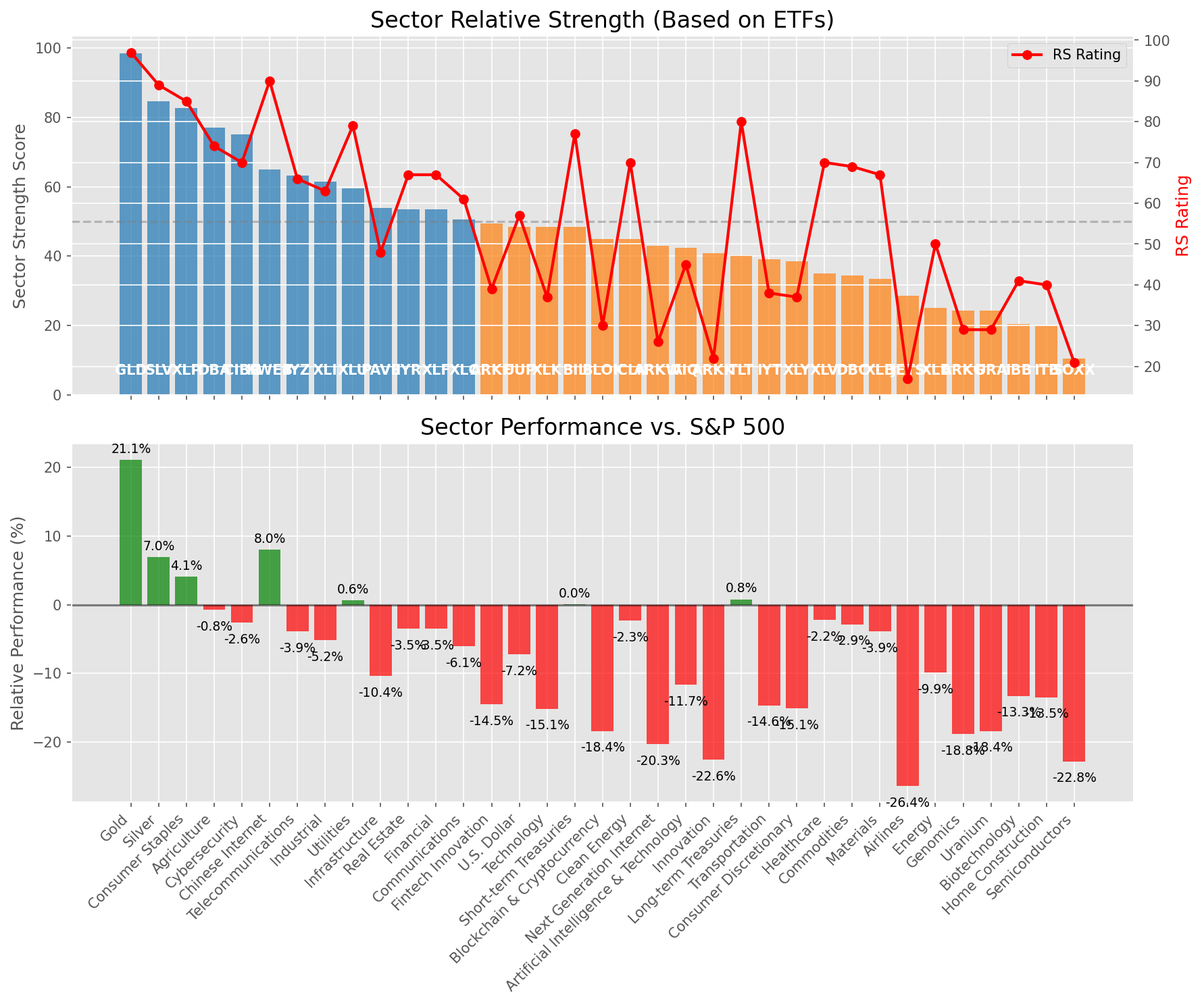
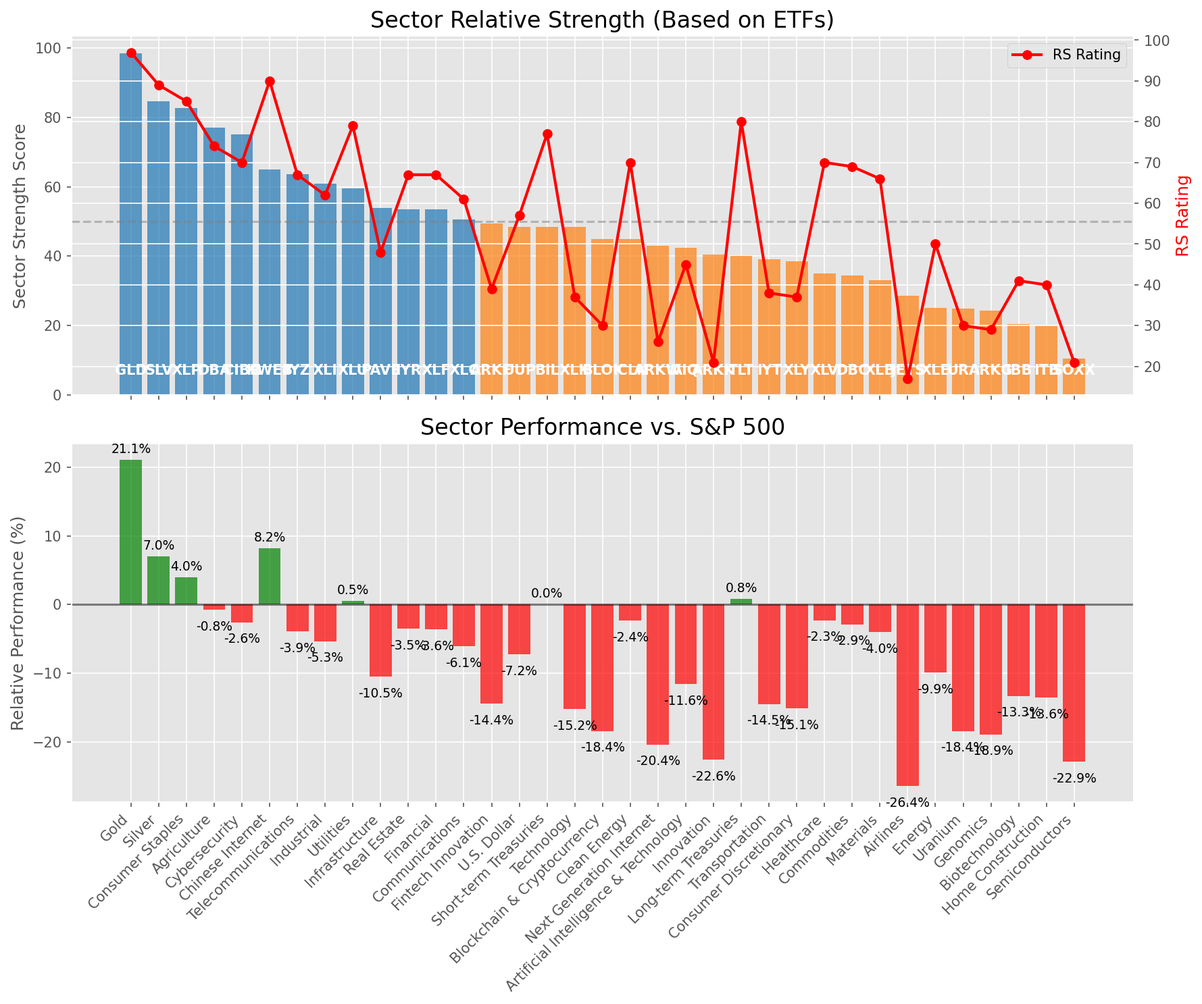
Add market report for 2025-04-11

diff --git a/oneil_relative_strength_report_2025-04-11.md b/oneil_relative_strength_report_2025-04-11.md
@@ -9,11 +9,11 @@
 | Metric | Value |
 |--------|-------|
 | **Market Valuation** | **Significantly Undervalued** |
-| **Current Ratio** | 8.82 |
+| **Current Ratio** | 8.80 |
 | **Historical Mean** | 9.69 |
 | **Standard Deviation** | 0.44 |
 | **Z-Score (StdDev from Mean)** | -2.33 |
-| **Total Market Cap** | $262.14 trillion |
+| **Total Market Cap** | $261.58 trillion |
 | **GDP** | $29.72 trillion |
 
 ## **Market Insights**
@@ -49,41 +49,41 @@ Based on William O'Neil's Relative Strength Methodology
 
 | ETF | Strength | RS Rating | Performance | Above Key MAs | Trend | Sector |
 |-----|----------|-----------|-------------|--------------|-------|--------|
-| [GLD](https://www.tradingview.com/chart/?symbol=GLD) | 98.5 | 97.0 | 21.13% | 10d ✓, 50d ✓, 200d ✓ | ↗ | Gold |
-| [SLV](https://www.tradingview.com/chart/?symbol=SLV) | 84.6 | 89.0 | 6.95% | 10d ✓, 50d ✗, 200d ✓ | ↗ | Silver |
-| [XLP](https://www.tradingview.com/chart/?symbol=XLP) | 82.6 | 85.0 | 4.07% | 10d ✓, 50d ✗, 200d ✓ | ↗ | Consumer Staples |
-| [DBA](https://www.tradingview.com/chart/?symbol=DBA) | 77.1 | 74.0 | -0.77% | 10d ✓, 50d ✗, 200d ✓ | ↗ | Agriculture |
+| [GLD](https://www.tradingview.com/chart/?symbol=GLD) | 98.5 | 97.0 | 21.08% | 10d ✓, 50d ✓, 200d ✓ | ↗ | Gold |
+| [SLV](https://www.tradingview.com/chart/?symbol=SLV) | 84.6 | 89.0 | 6.99% | 10d ✓, 50d ✗, 200d ✓ | ↗ | Silver |
+| [XLP](https://www.tradingview.com/chart/?symbol=XLP) | 82.6 | 85.0 | 3.98% | 10d ✓, 50d ✗, 200d ✓ | ↗ | Consumer Staples |
+| [DBA](https://www.tradingview.com/chart/?symbol=DBA) | 77.1 | 74.0 | -0.75% | 10d ✓, 50d ✗, 200d ✓ | ↗ | Agriculture |
 | [CIBR](https://www.tradingview.com/chart/?symbol=CIBR) | 75.1 | 70.0 | -2.60% | 10d ✓, 50d ✗, 200d ✓ | ↗ | Cybersecurity |
-| [KWEB](https://www.tradingview.com/chart/?symbol=KWEB) | 65.0 | 90.0 | 8.01% | 10d ✗, 50d ✗, 200d ✗ | ↗ | Chinese Internet |
-| [IYZ](https://www.tradingview.com/chart/?symbol=IYZ) | 63.2 | 66.0 | -3.92% | 10d ✗, 50d ✗, 200d ✓ | ↗ | Telecommunications |
-| [XLI](https://www.tradingview.com/chart/?symbol=XLI) | 61.4 | 63.0 | -5.20% | 10d ✓, 50d ✗, 200d ✗ | ↗ | Industrial |
-| [XLU](https://www.tradingview.com/chart/?symbol=XLU) | 59.5 | 79.0 | 0.61% | 10d ✗, 50d ✗, 200d ✗ | ↗ | Utilities |
-| [PAVE](https://www.tradingview.com/chart/?symbol=PAVE) | 53.9 | 48.0 | -10.39% | 10d ✓, 50d ✗, 200d ✗ | ↗ | Infrastructure |
-| [IYR](https://www.tradingview.com/chart/?symbol=IYR) | 53.5 | 67.0 | -3.51% | 10d ✗, 50d ✗, 200d ✗ | ↗ | Real Estate |
-| [XLF](https://www.tradingview.com/chart/?symbol=XLF) | 53.5 | 67.0 | -3.51% | 10d ✗, 50d ✗, 200d ✗ | ↗ | Financial |
-| [XLC](https://www.tradingview.com/chart/?symbol=XLC) | 50.5 | 61.0 | -6.09% | 10d ✗, 50d ✗, 200d ✗ | ↗ | Communications |
-| [ARKF](https://www.tradingview.com/chart/?symbol=ARKF) | 49.4 | 39.0 | -14.50% | 10d ✓, 50d ✗, 200d ✗ | ↗ | Fintech Innovation |
+| [KWEB](https://www.tradingview.com/chart/?symbol=KWEB) | 65.0 | 90.0 | 8.19% | 10d ✗, 50d ✗, 200d ✗ | ↗ | Chinese Internet |
+| [IYZ](https://www.tradingview.com/chart/?symbol=IYZ) | 63.7 | 67.0 | -3.94% | 10d ✗, 50d ✗, 200d ✓ | ↗ | Telecommunications |
+| [XLI](https://www.tradingview.com/chart/?symbol=XLI) | 60.9 | 62.0 | -5.35% | 10d ✓, 50d ✗, 200d ✗ | ↗ | Industrial |
+| [XLU](https://www.tradingview.com/chart/?symbol=XLU) | 59.5 | 79.0 | 0.55% | 10d ✗, 50d ✗, 200d ✗ | ↗ | Utilities |
+| [PAVE](https://www.tradingview.com/chart/?symbol=PAVE) | 53.9 | 48.0 | -10.51% | 10d ✓, 50d ✗, 200d ✗ | ↗ | Infrastructure |
+| [IYR](https://www.tradingview.com/chart/?symbol=IYR) | 53.5 | 67.0 | -3.54% | 10d ✗, 50d ✗, 200d ✗ | ↗ | Real Estate |
+| [XLF](https://www.tradingview.com/chart/?symbol=XLF) | 53.5 | 67.0 | -3.61% | 10d ✗, 50d ✗, 200d ✗ | ↗ | Financial |
+| [XLC](https://www.tradingview.com/chart/?symbol=XLC) | 50.5 | 61.0 | -6.07% | 10d ✗, 50d ✗, 200d ✗ | ↗ | Communications |
+| [ARKF](https://www.tradingview.com/chart/?symbol=ARKF) | 49.4 | 39.0 | -14.42% | 10d ✓, 50d ✗, 200d ✗ | ↗ | Fintech Innovation |
 | [UUP](https://www.tradingview.com/chart/?symbol=UUP) | 48.5 | 57.0 | -7.24% | 10d ✗, 50d ✗, 200d ✗ | ↗ | U.S. Dollar |
-| [XLK](https://www.tradingview.com/chart/?symbol=XLK) | 48.4 | 37.0 | -15.15% | 10d ✓, 50d ✗, 200d ✗ | ↗ | Technology |
 | [BIL](https://www.tradingview.com/chart/?symbol=BIL) | 48.4 | 77.0 | 0.04% | 10d ✓, 50d ✗, 200d ✗ | ↘ | Short-term Treasuries |
+| [XLK](https://www.tradingview.com/chart/?symbol=XLK) | 48.4 | 37.0 | -15.21% | 10d ✓, 50d ✗, 200d ✗ | ↗ | Technology |
 | [BLOK](https://www.tradingview.com/chart/?symbol=BLOK) | 44.9 | 30.0 | -18.42% | 10d ✓, 50d ✗, 200d ✗ | ↗ | Blockchain & Cryptocurrency |
-| [ICLN](https://www.tradingview.com/chart/?symbol=ICLN) | 44.9 | 70.0 | -2.30% | 10d ✓, 50d ✗, 200d ✗ | ↘ | Clean Energy |
-| [ARKW](https://www.tradingview.com/chart/?symbol=ARKW) | 42.9 | 26.0 | -20.33% | 10d ✓, 50d ✗, 200d ✗ | ↗ | Next Generation Internet |
-| [AIQ](https://www.tradingview.com/chart/?symbol=AIQ) | 42.5 | 45.0 | -11.65% | 10d ✗, 50d ✗, 200d ✗ | ↗ | Artificial Intelligence & Technology |
-| [ARKK](https://www.tradingview.com/chart/?symbol=ARKK) | 40.9 | 22.0 | -22.56% | 10d ✓, 50d ✗, 200d ✗ | ↗ | Innovation |
-| [TLT](https://www.tradingview.com/chart/?symbol=TLT) | 40.0 | 80.0 | 0.80% | 10d ✗, 50d ✗, 200d ✗ | ↘ | Long-term Treasuries |
-| [IYT](https://www.tradingview.com/chart/?symbol=IYT) | 39.0 | 38.0 | -14.65% | 10d ✗, 50d ✗, 200d ✗ | ↗ | Transportation |
-| [XLY](https://www.tradingview.com/chart/?symbol=XLY) | 38.5 | 37.0 | -15.09% | 10d ✗, 50d ✗, 200d ✗ | ↗ | Consumer Discretionary |
-| [XLV](https://www.tradingview.com/chart/?symbol=XLV) | 35.0 | 70.0 | -2.22% | 10d ✗, 50d ✗, 200d ✗ | ↘ | Healthcare |
-| [DBC](https://www.tradingview.com/chart/?symbol=DBC) | 34.5 | 69.0 | -2.88% | 10d ✗, 50d ✗, 200d ✗ | ↘ | Commodities |
-| [XLB](https://www.tradingview.com/chart/?symbol=XLB) | 33.5 | 67.0 | -3.89% | 10d ✗, 50d ✗, 200d ✗ | ↘ | Materials |
-| [JETS](https://www.tradingview.com/chart/?symbol=JETS) | 28.5 | 17.0 | -26.41% | 10d ✗, 50d ✗, 200d ✗ | ↗ | Airlines |
-| [XLE](https://www.tradingview.com/chart/?symbol=XLE) | 25.0 | 50.0 | -9.87% | 10d ✗, 50d ✗, 200d ✗ | ↘ | Energy |
-| [ARKG](https://www.tradingview.com/chart/?symbol=ARKG) | 24.4 | 29.0 | -18.83% | 10d ✓, 50d ✗, 200d ✗ | ↘ | Genomics |
-| [URA](https://www.tradingview.com/chart/?symbol=URA) | 24.4 | 29.0 | -18.43% | 10d ✓, 50d ✗, 200d ✗ | ↘ | Uranium |
-| [IBB](https://www.tradingview.com/chart/?symbol=IBB) | 20.5 | 41.0 | -13.31% | 10d ✗, 50d ✗, 200d ✗ | ↘ | Biotechnology |
-| [ITB](https://www.tradingview.com/chart/?symbol=ITB) | 20.0 | 40.0 | -13.49% | 10d ✗, 50d ✗, 200d ✗ | ↘ | Home Construction |
-| [SOXX](https://www.tradingview.com/chart/?symbol=SOXX) | 10.5 | 21.0 | -22.82% | 10d ✗, 50d ✗, 200d ✗ | ↘ | Semiconductors |
+| [ICLN](https://www.tradingview.com/chart/?symbol=ICLN) | 44.9 | 70.0 | -2.39% | 10d ✓, 50d ✗, 200d ✗ | ↘ | Clean Energy |
+| [ARKW](https://www.tradingview.com/chart/?symbol=ARKW) | 42.9 | 26.0 | -20.39% | 10d ✓, 50d ✗, 200d ✗ | ↗ | Next Generation Internet |
+| [AIQ](https://www.tradingview.com/chart/?symbol=AIQ) | 42.5 | 45.0 | -11.61% | 10d ✗, 50d ✗, 200d ✗ | ↗ | Artificial Intelligence & Technology |
+| [ARKK](https://www.tradingview.com/chart/?symbol=ARKK) | 40.4 | 21.0 | -22.60% | 10d ✓, 50d ✗, 200d ✗ | ↗ | Innovation |
+| [TLT](https://www.tradingview.com/chart/?symbol=TLT) | 40.0 | 80.0 | 0.84% | 10d ✗, 50d ✗, 200d ✗ | ↘ | Long-term Treasuries |
+| [IYT](https://www.tradingview.com/chart/?symbol=IYT) | 39.0 | 38.0 | -14.51% | 10d ✗, 50d ✗, 200d ✗ | ↗ | Transportation |
+| [XLY](https://www.tradingview.com/chart/?symbol=XLY) | 38.5 | 37.0 | -15.11% | 10d ✗, 50d ✗, 200d ✗ | ↗ | Consumer Discretionary |
+| [XLV](https://www.tradingview.com/chart/?symbol=XLV) | 35.0 | 70.0 | -2.31% | 10d ✗, 50d ✗, 200d ✗ | ↘ | Healthcare |
+| [DBC](https://www.tradingview.com/chart/?symbol=DBC) | 34.5 | 69.0 | -2.90% | 10d ✗, 50d ✗, 200d ✗ | ↘ | Commodities |
+| [XLB](https://www.tradingview.com/chart/?symbol=XLB) | 33.0 | 66.0 | -4.02% | 10d ✗, 50d ✗, 200d ✗ | ↘ | Materials |
+| [JETS](https://www.tradingview.com/chart/?symbol=JETS) | 28.5 | 17.0 | -26.43% | 10d ✗, 50d ✗, 200d ✗ | ↗ | Airlines |
+| [XLE](https://www.tradingview.com/chart/?symbol=XLE) | 25.0 | 50.0 | -9.91% | 10d ✗, 50d ✗, 200d ✗ | ↘ | Energy |
+| [URA](https://www.tradingview.com/chart/?symbol=URA) | 24.9 | 30.0 | -18.43% | 10d ✓, 50d ✗, 200d ✗ | ↘ | Uranium |
+| [ARKG](https://www.tradingview.com/chart/?symbol=ARKG) | 24.4 | 29.0 | -18.91% | 10d ✓, 50d ✗, 200d ✗ | ↘ | Genomics |
+| [IBB](https://www.tradingview.com/chart/?symbol=IBB) | 20.5 | 41.0 | -13.33% | 10d ✗, 50d ✗, 200d ✗ | ↘ | Biotechnology |
+| [ITB](https://www.tradingview.com/chart/?symbol=ITB) | 20.0 | 40.0 | -13.59% | 10d ✗, 50d ✗, 200d ✗ | ↘ | Home Construction |
+| [SOXX](https://www.tradingview.com/chart/?symbol=SOXX) | 10.5 | 21.0 | -22.90% | 10d ✗, 50d ✗, 200d ✗ | ↘ | Semiconductors |
 
 ### **Sector ETF Performance Interpretation**
 
@@ -100,94 +100,90 @@ This table shows the relative strength metrics for different market sectors base
 
 The current market leadership is coming from the following sectors: **Gold, Silver, Consumer Staples**.
 
-The **Gold** sector (represented by **GLD**) is showing particularly strong relative strength with an RS rating of 97.0 and performance of 21.13% vs. the S&P 500. This sector is trading above its 10-day, 50-day, 200-day moving average(s). Investors should consider focusing on high RS stocks within these leading sectors for potential outperformance.
+The **Gold** sector (represented by **GLD**) is showing particularly strong relative strength with an RS rating of 97.0 and performance of 21.08% vs. the S&P 500. This sector is trading above its 10-day, 50-day, 200-day moving average(s). Investors should consider focusing on high RS stocks within these leading sectors for potential outperformance.
 
 ---
 
 ## **Buy Recommendations**
 
-The following 79 stocks show exceptional relative strength:
+The following 75 stocks show exceptional relative strength:
 
 | RS Rating | Buy Score | Current Price | Chart | Name | Ticker |
 |-----------|-----------|---------------|-------|------|--------|
-| 100 | 100 | $82.87 | [Chart](https://www.tradingview.com/chart/?symbol=WPM) | Wheaton Precious Metals Corp. Common Stock | WPM |
-| 100 | 100 | $29.41 | [Chart](https://www.tradingview.com/chart/?symbol=AGI) | Alamos Gold Inc. Class A Common Shares | AGI |
+| 100 | 100 | $82.82 | [Chart](https://www.tradingview.com/chart/?symbol=WPM) | Wheaton Precious Metals Corp. Common Stock | WPM |
+| 100 | 100 | $29.37 | [Chart](https://www.tradingview.com/chart/?symbol=AGI) | Alamos Gold Inc. Class A Common Shares | AGI |
+| 99 | 100 | $118.07 | [Chart](https://www.tradingview.com/chart/?symbol=AEM) | Agnico Eagle Mines Ltd. | AEM |
+| 99 | 100 | $31.05 | [Chart](https://www.tradingview.com/chart/?symbol=LTH) | Life Time Group Holdings, Inc. | LTH |
+| 99 | 100 | $146.89 | [Chart](https://www.tradingview.com/chart/?symbol=PLMR) | Palomar Holdings, Inc. Common stock | PLMR |
 | 99 | 100 | $18.48 | [Chart](https://www.tradingview.com/chart/?symbol=SWI) | SolarWinds Corporation Common Stock | SWI |
+| 99 | 100 | $135.87 | [Chart](https://www.tradingview.com/chart/?symbol=UGL) | ProShares Ultra Gold | UGL |
+| 99 | 100 | $61.43 | [Chart](https://www.tradingview.com/chart/?symbol=GDXJ) | VanEck Junior Gold Miners ETF | GDXJ |
 | 99 | 100 | $22.39 | [Chart](https://www.tradingview.com/chart/?symbol=DB) | Deutsche Bank Aktiengesellschaft | DB |
-| 99 | 100 | $118.21 | [Chart](https://www.tradingview.com/chart/?symbol=AEM) | Agnico Eagle Mines Ltd. | AEM |
-| 99 | 100 | $146.64 | [Chart](https://www.tradingview.com/chart/?symbol=PLMR) | Palomar Holdings, Inc. Common stock | PLMR |
-| 99 | 100 | $31.14 | [Chart](https://www.tradingview.com/chart/?symbol=LTH) | Life Time Group Holdings, Inc. | LTH |
-| 99 | 100 | $61.51 | [Chart](https://www.tradingview.com/chart/?symbol=GDXJ) | VanEck Junior Gold Miners ETF | GDXJ |
-| 99 | 100 | $135.86 | [Chart](https://www.tradingview.com/chart/?symbol=UGL) | ProShares Ultra Gold | UGL |
-| 99 | 100 | $15.67 | [Chart](https://www.tradingview.com/chart/?symbol=EZPW) | Ezcorp Inc | EZPW |
-| 99 | 100 | $180.66 | [Chart](https://www.tradingview.com/chart/?symbol=RGLD) | Royal Gold Inc | RGLD |
-| 98 | 100 | $116.79 | [Chart](https://www.tradingview.com/chart/?symbol=BJ) | BJs Wholesale Club Holdings, Inc. Common Stock | BJ |
-| 98 | 100 | $76.73 | [Chart](https://www.tradingview.com/chart/?symbol=NFG) | National Fuel Gas Co. | NFG |
-| 98 | 100 | $30.82 | [Chart](https://www.tradingview.com/chart/?symbol=SGOL) | abrdn Physical Gold Shares ETF | SGOL |
-| 98 | 100 | $154.43 | [Chart](https://www.tradingview.com/chart/?symbol=PM) | Philip Morris International Inc. | PM |
-| 98 | 100 | $32.22 | [Chart](https://www.tradingview.com/chart/?symbol=IAUM) | iShares Gold Trust Micro | IAUM |
-| 98 | 100 | $63.98 | [Chart](https://www.tradingview.com/chart/?symbol=GLDM) | SPDR Gold MiniShares | GLDM |
+| 99 | 100 | $180.90 | [Chart](https://www.tradingview.com/chart/?symbol=RGLD) | Royal Gold Inc | RGLD |
+| 99 | 100 | $15.63 | [Chart](https://www.tradingview.com/chart/?symbol=EZPW) | Ezcorp Inc | EZPW |
+| 98 | 100 | $30.80 | [Chart](https://www.tradingview.com/chart/?symbol=SGOL) | abrdn Physical Gold Shares ETF | SGOL |
+| 98 | 100 | $32.20 | [Chart](https://www.tradingview.com/chart/?symbol=IAUM) | iShares Gold Trust Micro | IAUM |
+| 98 | 100 | $63.95 | [Chart](https://www.tradingview.com/chart/?symbol=GLDM) | SPDR Gold MiniShares | GLDM |
+| 98 | 100 | $116.70 | [Chart](https://www.tradingview.com/chart/?symbol=BJ) | BJs Wholesale Club Holdings, Inc. Common Stock | BJ |
+| 98 | 100 | $76.77 | [Chart](https://www.tradingview.com/chart/?symbol=NFG) | National Fuel Gas Co. | NFG |
 | 98 | 100 | $22.50 | [Chart](https://www.tradingview.com/chart/?symbol=SRAD) | Sportradar Group AG Class A Ordinary Shares | SRAD |
-| 97 | 100 | $60.95 | [Chart](https://www.tradingview.com/chart/?symbol=IAU) | iShares Gold Trust | IAU |
-| 97 | 100 | $259.07 | [Chart](https://www.tradingview.com/chart/?symbol=TMUS) | T-Mobile US, Inc. | TMUS |
-| 97 | 100 | $24.80 | [Chart](https://www.tradingview.com/chart/?symbol=PHYS) | Sprott Physical Gold Trust | PHYS |
-| 97 | 100 | $297.82 | [Chart](https://www.tradingview.com/chart/?symbol=GLD) | SPDR Gold Trust, SPDR Gold Shares | GLD |
-| 97 | 100 | $31.88 | [Chart](https://www.tradingview.com/chart/?symbol=BAR) | GraniteShares Gold Shares | BAR |
+| 97 | 100 | $60.91 | [Chart](https://www.tradingview.com/chart/?symbol=IAU) | iShares Gold Trust | IAU |
+| 97 | 100 | $31.86 | [Chart](https://www.tradingview.com/chart/?symbol=BAR) | GraniteShares Gold Shares | BAR |
+| 97 | 100 | $297.68 | [Chart](https://www.tradingview.com/chart/?symbol=GLD) | SPDR Gold Trust, SPDR Gold Shares | GLD |
+| 97 | 100 | $31.14 | [Chart](https://www.tradingview.com/chart/?symbol=OUNZ) | VanEck Merk Gold ETF | OUNZ |
 | 97 | 100 | $22.40 | [Chart](https://www.tradingview.com/chart/?symbol=OR) | Osisko Gold Royalties Ltd | OR |
-| 97 | 100 | $31.15 | [Chart](https://www.tradingview.com/chart/?symbol=OUNZ) | VanEck Merk Gold ETF | OUNZ |
-| 97 | 100 | $45.99 | [Chart](https://www.tradingview.com/chart/?symbol=EXC) | Exelon Corporation | EXC |
-| 97 | 100 | $72.84 | [Chart](https://www.tradingview.com/chart/?symbol=RYAN) | Ryan Specialty Holdings, Inc. | RYAN |
-| 96 | 100 | $334.11 | [Chart](https://www.tradingview.com/chart/?symbol=AJG) | Arthur J. Gallagher & Co. | AJG |
-| 96 | 100 | $243.69 | [Chart](https://www.tradingview.com/chart/?symbol=RSG) | Republic Services Inc. | RSG |
-| 96 | 100 | $123.00 | [Chart](https://www.tradingview.com/chart/?symbol=BECN) | Beacon Roofing Supply, Inc. | BECN |
-| 96 | 100 | $36.48 | [Chart](https://www.tradingview.com/chart/?symbol=CNP) | CenterPoint Energy, Inc. | CNP |
-| 95 | 100 | $68.33 | [Chart](https://www.tradingview.com/chart/?symbol=KR) | The Kroger Co. | KR |
-| 95 | 100 | $24.11 | [Chart](https://www.tradingview.com/chart/?symbol=PRVA) | Privia Health Group, Inc. Common Stock | PRVA |
-| 95 | 100 | $52.95 | [Chart](https://www.tradingview.com/chart/?symbol=PPC) | Pilgrims Pride Corporation | PPC |
+| 97 | 100 | $45.98 | [Chart](https://www.tradingview.com/chart/?symbol=EXC) | Exelon Corporation | EXC |
+| 97 | 100 | $24.79 | [Chart](https://www.tradingview.com/chart/?symbol=PHYS) | Sprott Physical Gold Trust | PHYS |
+| 97 | 100 | $72.80 | [Chart](https://www.tradingview.com/chart/?symbol=RYAN) | Ryan Specialty Holdings, Inc. | RYAN |
+| 97 | 100 | $259.00 | [Chart](https://www.tradingview.com/chart/?symbol=TMUS) | T-Mobile US, Inc. | TMUS |
+| 96 | 100 | $36.47 | [Chart](https://www.tradingview.com/chart/?symbol=CNP) | CenterPoint Energy, Inc. | CNP |
+| 96 | 100 | $333.91 | [Chart](https://www.tradingview.com/chart/?symbol=AJG) | Arthur J. Gallagher & Co. | AJG |
+| 96 | 100 | $243.07 | [Chart](https://www.tradingview.com/chart/?symbol=RSG) | Republic Services Inc. | RSG |
+| 95 | 100 | $24.07 | [Chart](https://www.tradingview.com/chart/?symbol=PRVA) | Privia Health Group, Inc. Common Stock | PRVA |
+| 95 | 100 | $52.89 | [Chart](https://www.tradingview.com/chart/?symbol=PPC) | Pilgrims Pride Corporation | PPC |
+| 95 | 100 | $27.43 | [Chart](https://www.tradingview.com/chart/?symbol=EUFN) | iShares MSCI Europe Financials ETF | EUFN |
 | 95 | 100 | $28.64 | [Chart](https://www.tradingview.com/chart/?symbol=CEF) | Sprott Physical Gold and Silver Trust | CEF |
-| 95 | 100 | $455.55 | [Chart](https://www.tradingview.com/chart/?symbol=CASY) | Casey's General Stores Inc | CASY |
-| 95 | 100 | $524.42 | [Chart](https://www.tradingview.com/chart/?symbol=BRK.B) | BERKSHIRE HATHAWAY Class B | BRK.B |
-| 95 | 100 | $27.44 | [Chart](https://www.tradingview.com/chart/?symbol=EUFN) | iShares MSCI Europe Financials ETF | EUFN |
-| 95 | 100 | $37.90 | [Chart](https://www.tradingview.com/chart/?symbol=MRX) | Marex Group plc Ordinary Shares | MRX |
-| 94 | 100 | $263.18 | [Chart](https://www.tradingview.com/chart/?symbol=CME) | CME Group Inc. | CME |
-| 94 | 100 | $41.56 | [Chart](https://www.tradingview.com/chart/?symbol=BTI) | British American Tobacco p.l.c. American Depositary Shares, American Depositary Shares, each representing one Ordinary Share | BTI |
-| 94 | 100 | $107.31 | [Chart](https://www.tradingview.com/chart/?symbol=WEC) | WEC Energy Group, Inc. | WEC |
-| 94 | 100 | $33.19 | [Chart](https://www.tradingview.com/chart/?symbol=KTOS) | Kratos Defense & Security Solutions, Inc. | KTOS |
-| 94 | 100 | $52.15 | [Chart](https://www.tradingview.com/chart/?symbol=SKWD) | Skyward Specialty Insurance Group, Inc. Common Stock | SKWD |
-| 94 | 100 | $210.44 | [Chart](https://www.tradingview.com/chart/?symbol=TTWO) | Take-Two Interactive Software Inc | TTWO |
-| 94 | 100 | $274.83 | [Chart](https://www.tradingview.com/chart/?symbol=PGR) | Progressive Corporation | PGR |
-| 94 | 100 | $87.00 | [Chart](https://www.tradingview.com/chart/?symbol=CCEP) | Coca-Cola Europacific Partners plc Ordinary Shares | CCEP |
-| 94 | 100 | $56.20 | [Chart](https://www.tradingview.com/chart/?symbol=ULS) | UL Solutions Inc. | ULS |
-| 93 | 100 | $156.13 | [Chart](https://www.tradingview.com/chart/?symbol=SFM) | Sprouts Farmers Market, Inc. | SFM |
-| 93 | 100 | $103.37 | [Chart](https://www.tradingview.com/chart/?symbol=EHC) | Encompass Health Corporation Common Stock | EHC |
-| 92 | 100 | $80.70 | [Chart](https://www.tradingview.com/chart/?symbol=FAST) | Fastenal Co | FAST |
-| 92 | 100 | $103.93 | [Chart](https://www.tradingview.com/chart/?symbol=ATGE) | Adtalem Global Education Inc. Common Shares | ATGE |
-| 92 | 100 | $194.48 | [Chart](https://www.tradingview.com/chart/?symbol=WCN) | Waste Connections, Inc. | WCN |
-| 91 | 100 | $151.94 | [Chart](https://www.tradingview.com/chart/?symbol=ATO) | Atmos Energy Corporation | ATO |
-| 91 | 100 | $113.99 | [Chart](https://www.tradingview.com/chart/?symbol=OLLI) | Ollie's Bargain Outlet Holdings, Inc. Common Stock | OLLI |
-| 91 | 100 | $74.55 | [Chart](https://www.tradingview.com/chart/?symbol=OGS) | ONE GAS, INC. | OGS |
-| 90 | 100 | $309.48 | [Chart](https://www.tradingview.com/chart/?symbol=MCD) | McDonald's Corporation | MCD |
-| 90 | 100 | $132.53 | [Chart](https://www.tradingview.com/chart/?symbol=CAH) | Cardinal Health, Inc. | CAH |
-| 90 | 100 | $75.13 | [Chart](https://www.tradingview.com/chart/?symbol=ADC) | Agree Realty Corporation | ADC |
-| 90 | 100 | $48.16 | [Chart](https://www.tradingview.com/chart/?symbol=GFL) | GFL Environmental Inc. Subordinate Voting Shares | GFL |
-| 90 | 100 | $215.09 | [Chart](https://www.tradingview.com/chart/?symbol=PAYC) | PAYCOM SOFTWARE, INC. | PAYC |
-| 89 | 100 | $276.21 | [Chart](https://www.tradingview.com/chart/?symbol=PEN) | Penumbra, Inc. | PEN |
-| 89 | 100 | $114.67 | [Chart](https://www.tradingview.com/chart/?symbol=CWST) | Casella Waste Systems Inc | CWST |
-| 88 | 100 | $117.64 | [Chart](https://www.tradingview.com/chart/?symbol=IDA) | IDACORP, Inc. | IDA |
-| 88 | 100 | $46.67 | [Chart](https://www.tradingview.com/chart/?symbol=MRCY) | Mercury Systems Inc. | MRCY |
-| 86 | 99 | $18.11 | [Chart](https://www.tradingview.com/chart/?symbol=GRND) | Grindr Inc. | GRND |
-| 87 | 98 | $49.55 | [Chart](https://www.tradingview.com/chart/?symbol=RELX) | RELX PLC | RELX |
-| 86 | 98 | $34.99 | [Chart](https://www.tradingview.com/chart/?symbol=DRS) | Leonardo DRS, Inc. Common Stock | DRS |
-| 87 | 97 | $128.01 | [Chart](https://www.tradingview.com/chart/?symbol=TJX) | TJX Companies, Inc. (The) | TJX |
-| 86 | 97 | $292.77 | [Chart](https://www.tradingview.com/chart/?symbol=VRSK) | Verisk Analytics, Inc. Common Stock | VRSK |
-| 85 | 96 | $75.54 | [Chart](https://www.tradingview.com/chart/?symbol=BRBR) | BellRing Brands, Inc. | BRBR |
-| 84 | 94 | $59.74 | [Chart](https://www.tradingview.com/chart/?symbol=RYTM) | Rhythm Pharmaceuticals, Inc. Common Stock | RYTM |
-| 84 | 94 | $106.75 | [Chart](https://www.tradingview.com/chart/?symbol=AFL) | Aflac Inc. | AFL |
+| 95 | 100 | $68.29 | [Chart](https://www.tradingview.com/chart/?symbol=KR) | The Kroger Co. | KR |
+| 95 | 100 | $455.80 | [Chart](https://www.tradingview.com/chart/?symbol=CASY) | Casey's General Stores Inc | CASY |
+| 95 | 100 | $523.93 | [Chart](https://www.tradingview.com/chart/?symbol=BRK.B) | BERKSHIRE HATHAWAY Class B | BRK.B |
+| 95 | 100 | $37.83 | [Chart](https://www.tradingview.com/chart/?symbol=MRX) | Marex Group plc Ordinary Shares | MRX |
+| 94 | 100 | $107.23 | [Chart](https://www.tradingview.com/chart/?symbol=WEC) | WEC Energy Group, Inc. | WEC |
+| 94 | 100 | $41.55 | [Chart](https://www.tradingview.com/chart/?symbol=BTI) | British American Tobacco p.l.c. American Depositary Shares, American Depositary Shares, each representing one Ordinary Share | BTI |
+| 94 | 100 | $56.30 | [Chart](https://www.tradingview.com/chart/?symbol=ULS) | UL Solutions Inc. | ULS |
+| 94 | 100 | $33.21 | [Chart](https://www.tradingview.com/chart/?symbol=KTOS) | Kratos Defense & Security Solutions, Inc. | KTOS |
+| 94 | 100 | $274.51 | [Chart](https://www.tradingview.com/chart/?symbol=PGR) | Progressive Corporation | PGR |
+| 94 | 100 | $263.06 | [Chart](https://www.tradingview.com/chart/?symbol=CME) | CME Group Inc. | CME |
+| 94 | 100 | $210.60 | [Chart](https://www.tradingview.com/chart/?symbol=TTWO) | Take-Two Interactive Software Inc | TTWO |
+| 94 | 100 | $52.18 | [Chart](https://www.tradingview.com/chart/?symbol=SKWD) | Skyward Specialty Insurance Group, Inc. Common Stock | SKWD |
+| 94 | 100 | $86.90 | [Chart](https://www.tradingview.com/chart/?symbol=CCEP) | Coca-Cola Europacific Partners plc Ordinary Shares | CCEP |
+| 93 | 100 | $103.18 | [Chart](https://www.tradingview.com/chart/?symbol=EHC) | Encompass Health Corporation Common Stock | EHC |
+| 93 | 100 | $156.10 | [Chart](https://www.tradingview.com/chart/?symbol=SFM) | Sprouts Farmers Market, Inc. | SFM |
+| 92 | 100 | $104.14 | [Chart](https://www.tradingview.com/chart/?symbol=ATGE) | Adtalem Global Education Inc. Common Shares | ATGE |
+| 92 | 100 | $194.50 | [Chart](https://www.tradingview.com/chart/?symbol=WCN) | Waste Connections, Inc. | WCN |
+| 92 | 100 | $80.60 | [Chart](https://www.tradingview.com/chart/?symbol=FAST) | Fastenal Co | FAST |
+| 91 | 100 | $151.84 | [Chart](https://www.tradingview.com/chart/?symbol=ATO) | Atmos Energy Corporation | ATO |
+| 91 | 100 | $74.53 | [Chart](https://www.tradingview.com/chart/?symbol=OGS) | ONE GAS, INC. | OGS |
+| 91 | 100 | $113.89 | [Chart](https://www.tradingview.com/chart/?symbol=OLLI) | Ollie's Bargain Outlet Holdings, Inc. Common Stock | OLLI |
+| 90 | 100 | $48.12 | [Chart](https://www.tradingview.com/chart/?symbol=GFL) | GFL Environmental Inc. Subordinate Voting Shares | GFL |
+| 90 | 100 | $214.99 | [Chart](https://www.tradingview.com/chart/?symbol=PAYC) | PAYCOM SOFTWARE, INC. | PAYC |
+| 90 | 100 | $132.43 | [Chart](https://www.tradingview.com/chart/?symbol=CAH) | Cardinal Health, Inc. | CAH |
+| 90 | 100 | $75.14 | [Chart](https://www.tradingview.com/chart/?symbol=ADC) | Agree Realty Corporation | ADC |
+| 90 | 100 | $309.40 | [Chart](https://www.tradingview.com/chart/?symbol=MCD) | McDonald's Corporation | MCD |
+| 89 | 100 | $275.44 | [Chart](https://www.tradingview.com/chart/?symbol=PEN) | Penumbra, Inc. | PEN |
+| 89 | 100 | $114.60 | [Chart](https://www.tradingview.com/chart/?symbol=CWST) | Casella Waste Systems Inc | CWST |
+| 88 | 100 | $117.62 | [Chart](https://www.tradingview.com/chart/?symbol=IDA) | IDACORP, Inc. | IDA |
+| 88 | 100 | $46.58 | [Chart](https://www.tradingview.com/chart/?symbol=MRCY) | Mercury Systems Inc. | MRCY |
+| 87 | 98 | $49.49 | [Chart](https://www.tradingview.com/chart/?symbol=RELX) | RELX PLC | RELX |
+| 86 | 98 | $34.96 | [Chart](https://www.tradingview.com/chart/?symbol=DRS) | Leonardo DRS, Inc. Common Stock | DRS |
+| 85 | 98 | $18.05 | [Chart](https://www.tradingview.com/chart/?symbol=GRND) | Grindr Inc. | GRND |
+| 87 | 97 | $127.97 | [Chart](https://www.tradingview.com/chart/?symbol=TJX) | TJX Companies, Inc. (The) | TJX |
+| 85 | 96 | $292.37 | [Chart](https://www.tradingview.com/chart/?symbol=VRSK) | Verisk Analytics, Inc. Common Stock | VRSK |
+| 85 | 96 | $75.44 | [Chart](https://www.tradingview.com/chart/?symbol=BRBR) | BellRing Brands, Inc. | BRBR |
+| 84 | 94 | $59.75 | [Chart](https://www.tradingview.com/chart/?symbol=RYTM) | Rhythm Pharmaceuticals, Inc. Common Stock | RYTM |
 | 82 | 94 | $22.48 | [Chart](https://www.tradingview.com/chart/?symbol=ATSG) | Air Transport Services Group, Inc. | ATSG |
 | 81 | 94 | $111.64 | [Chart](https://www.tradingview.com/chart/?symbol=BOXX) | Alpha Architect 1-3 Month Box ETF | BOXX |
-| 82 | 93 | $35.87 | [Chart](https://www.tradingview.com/chart/?symbol=FYBR) | Frontier Communications Parent, Inc. Common Stock | FYBR |
-| 82 | 92 | $53.86 | [Chart](https://www.tradingview.com/chart/?symbol=IGF) | iShares Global Infrastructure ETF | IGF |
-| 81 | 92 | $37.38 | [Chart](https://www.tradingview.com/chart/?symbol=AB) | AllianceBernstein Holding, L.P. | AB |
+| 82 | 93 | $35.88 | [Chart](https://www.tradingview.com/chart/?symbol=FYBR) | Frontier Communications Parent, Inc. Common Stock | FYBR |
+| 82 | 92 | $53.87 | [Chart](https://www.tradingview.com/chart/?symbol=IGF) | iShares Global Infrastructure ETF | IGF |
 | 81 | 91 | $22.48 | [Chart](https://www.tradingview.com/chart/?symbol=PYCR) | Paycor HCM, Inc. Common Stock | PYCR |
 
 ---
@@ -195,32 +191,32 @@ The following 79 stocks show exceptional relative strength:
 
 ## **Sell Recommendations**
 
-The following 48 stocks show deteriorating relative strength:
+The following 47 stocks show deteriorating relative strength:
 
 | RS Rating | Sell Score | Current Price | Chart | Name | Ticker |
 |-----------|------------|---------------|-------|------|--------|
-| 1 | 100 | $66.36 | [Chart](https://www.tradingview.com/chart/?symbol=PI) | Impinj, Inc. Common Stock | PI |
-| 3 | 100 | $18.91 | [Chart](https://www.tradingview.com/chart/?symbol=DJT) | Trump Media & Technology Group Corp. Common Stock | DJT |
-| 4 | 100 | $34.11 | [Chart](https://www.tradingview.com/chart/?symbol=HELE) | Helen Of Troy Ltd | HELE |
+| 1 | 100 | $66.51 | [Chart](https://www.tradingview.com/chart/?symbol=PI) | Impinj, Inc. Common Stock | PI |
+| 3 | 100 | $18.88 | [Chart](https://www.tradingview.com/chart/?symbol=DJT) | Trump Media & Technology Group Corp. Common Stock | DJT |
+| 4 | 100 | $34.07 | [Chart](https://www.tradingview.com/chart/?symbol=HELE) | Helen Of Troy Ltd | HELE |
 | 5 | 100 | $11.57 | [Chart](https://www.tradingview.com/chart/?symbol=GCT) | GigaCloud Technology Inc Class A Ordinary Shares | GCT |
 | 6 | 100 | $10.10 | [Chart](https://www.tradingview.com/chart/?symbol=CGEM) | Cullinan Therapeutics, Inc. Common Stock | CGEM |
-| 11 | 100 | $43.07 | [Chart](https://www.tradingview.com/chart/?symbol=EDU) | New Oriental Education and Technology Group, Inc. American Depositary Shares (each representing ten (10) Common Shares) | EDU |
+| 11 | 100 | $43.09 | [Chart](https://www.tradingview.com/chart/?symbol=EDU) | New Oriental Education and Technology Group, Inc. American Depositary Shares (each representing ten (10) Common Shares) | EDU |
 | 12 | 100 | $27.24 | [Chart](https://www.tradingview.com/chart/?symbol=SRDX) | Surmodics, Inc. Common Stock | SRDX |
-| 13 | 98 | $19.44 | [Chart](https://www.tradingview.com/chart/?symbol=ST) | Sensata Technologies Holding plc | ST |
-| 13 | 95 | $18.80 | [Chart](https://www.tradingview.com/chart/?symbol=HZO) | MarineMax, Inc. | HZO |
+| 13 | 98 | $19.37 | [Chart](https://www.tradingview.com/chart/?symbol=ST) | Sensata Technologies Holding plc | ST |
 | 14 | 95 | $11.78 | [Chart](https://www.tradingview.com/chart/?symbol=AEYE) | AudioEye, Inc. Common Stock | AEYE |
-| 12 | 93 | $59.95 | [Chart](https://www.tradingview.com/chart/?symbol=ASGN) | ASGN Incorporated | ASGN |
+| 14 | 94 | $18.82 | [Chart](https://www.tradingview.com/chart/?symbol=HZO) | MarineMax, Inc. | HZO |
+| 12 | 93 | $59.99 | [Chart](https://www.tradingview.com/chart/?symbol=ASGN) | ASGN Incorporated | ASGN |
+| 17 | 93 | $51.68 | [Chart](https://www.tradingview.com/chart/?symbol=ENPH) | Enphase Energy, Inc. | ENPH |
 | 24 | 93 | $10.03 | [Chart](https://www.tradingview.com/chart/?symbol=MTAL) | MAC Copper Limited | MTAL |
-| 18 | 92 | $51.34 | [Chart](https://www.tradingview.com/chart/?symbol=CNMD) | CONMED Corporation | CNMD |
-| 18 | 92 | $51.95 | [Chart](https://www.tradingview.com/chart/?symbol=ENPH) | Enphase Energy, Inc. | ENPH |
-| 16 | 90 | $49.19 | [Chart](https://www.tradingview.com/chart/?symbol=RHI) | Robert Half Inc. | RHI |
-| 16 | 90 | $10.24 | [Chart](https://www.tradingview.com/chart/?symbol=EXPI) | eXp World Holdings, Inc. Common Stock | EXPI |
+| 18 | 92 | $51.28 | [Chart](https://www.tradingview.com/chart/?symbol=CNMD) | CONMED Corporation | CNMD |
+| 15 | 91 | $10.24 | [Chart](https://www.tradingview.com/chart/?symbol=EXPI) | eXp World Holdings, Inc. Common Stock | EXPI |
+| 16 | 90 | $49.20 | [Chart](https://www.tradingview.com/chart/?symbol=RHI) | Robert Half Inc. | RHI |
 | 12 | 89 | $12.47 | [Chart](https://www.tradingview.com/chart/?symbol=MARA) | MARA Holdings, Inc. Common Stock | MARA |
 | 12 | 89 | $10.01 | [Chart](https://www.tradingview.com/chart/?symbol=VYX) | NCR Voyix Corporation | VYX |
-| 17 | 89 | $332.98 | [Chart](https://www.tradingview.com/chart/?symbol=SAIA) | Saia, Inc. | SAIA |
-| 27 | 88 | $13.64 | [Chart](https://www.tradingview.com/chart/?symbol=FXN) | First Trust Energy AlphaDEX Fund | FXN |
+| 17 | 89 | $332.24 | [Chart](https://www.tradingview.com/chart/?symbol=SAIA) | Saia, Inc. | SAIA |
+| 31 | 88 | $12.89 | [Chart](https://www.tradingview.com/chart/?symbol=MED) | Medifast, Inc. | MED |
 | 14 | 87 | $10.31 | [Chart](https://www.tradingview.com/chart/?symbol=VREX) | Varex Imaging Corporation Common Stock | VREX |
-| 32 | 87 | $12.96 | [Chart](https://www.tradingview.com/chart/?symbol=MED) | Medifast, Inc. | MED |
+| 28 | 87 | $13.65 | [Chart](https://www.tradingview.com/chart/?symbol=FXN) | First Trust Energy AlphaDEX Fund | FXN |
 | 21 | 86 | $10.49 | [Chart](https://www.tradingview.com/chart/?symbol=PEB) | Pebblebrook Hotel Trust | PEB |
 | 21 | 86 | $22.31 | [Chart](https://www.tradingview.com/chart/?symbol=HOG) | Harley-Davidson, Inc. | HOG |
 | 20 | 85 | $11.34 | [Chart](https://www.tradingview.com/chart/?symbol=HPK) | HighPeak Energy, Inc. Common Stock | HPK |
@@ -228,25 +224,24 @@ The following 48 stocks show deteriorating relative strength:
 | 19 | 84 | $10.15 | [Chart](https://www.tradingview.com/chart/?symbol=HLIT) | Harmonic Inc | HLIT |
 | 28 | 84 | $10.11 | [Chart](https://www.tradingview.com/chart/?symbol=CELC) | Celcuity Inc. Common Stock | CELC |
 | 24 | 83 | $10.04 | [Chart](https://www.tradingview.com/chart/?symbol=HTLD) | Heartland Express Inc | HTLD |
-| 21 | 82 | $17.16 | [Chart](https://www.tradingview.com/chart/?symbol=IART) | Integra LifeSciences Holdings | IART |
-| 26 | 80 | $11.37 | [Chart](https://www.tradingview.com/chart/?symbol=RIVN) | Rivian Automotive, Inc. Class A Common Stock | RIVN |
+| 21 | 82 | $17.12 | [Chart](https://www.tradingview.com/chart/?symbol=IART) | Integra LifeSciences Holdings | IART |
+| 26 | 80 | $11.36 | [Chart](https://www.tradingview.com/chart/?symbol=RIVN) | Rivian Automotive, Inc. Class A Common Stock | RIVN |
 | 30 | 80 | $10.71 | [Chart](https://www.tradingview.com/chart/?symbol=DBRG) | DigitalBridge Group, Inc. | DBRG |
-| 32 | 80 | $76.73 | [Chart](https://www.tradingview.com/chart/?symbol=LEA) | Lear Corporation | LEA |
+| 32 | 80 | $76.72 | [Chart](https://www.tradingview.com/chart/?symbol=LEA) | Lear Corporation | LEA |
 | 24 | 79 | $10.26 | [Chart](https://www.tradingview.com/chart/?symbol=PACS) | PACS Group, Inc. | PACS |
-| 26 | 79 | $51.92 | [Chart](https://www.tradingview.com/chart/?symbol=HXL) | Hexcel Corporation | HXL |
-| 27 | 78 | $13.68 | [Chart](https://www.tradingview.com/chart/?symbol=MANU) | MANCHESTER UNITED PLC | MANU |
-| 29 | 77 | $10.83 | [Chart](https://www.tradingview.com/chart/?symbol=CMP) | Compass Minerals International, Inc. | CMP |
-| 31 | 77 | $56.16 | [Chart](https://www.tradingview.com/chart/?symbol=BMRN) | BioMarin Pharmaceuticals Inc | BMRN |
+| 26 | 79 | $51.87 | [Chart](https://www.tradingview.com/chart/?symbol=HXL) | Hexcel Corporation | HXL |
+| 28 | 78 | $10.75 | [Chart](https://www.tradingview.com/chart/?symbol=CMP) | Compass Minerals International, Inc. | CMP |
+| 28 | 77 | $13.68 | [Chart](https://www.tradingview.com/chart/?symbol=MANU) | MANCHESTER UNITED PLC | MANU |
+| 31 | 77 | $56.15 | [Chart](https://www.tradingview.com/chart/?symbol=BMRN) | BioMarin Pharmaceuticals Inc | BMRN |
 | 36 | 75 | $10.30 | [Chart](https://www.tradingview.com/chart/?symbol=CSTM) | Constellium SE Class A Ordinary shares | CSTM |
+| 35 | 73 | $11.02 | [Chart](https://www.tradingview.com/chart/?symbol=NAVI) | Navient Corporation | NAVI |
+| 31 | 72 | $105.37 | [Chart](https://www.tradingview.com/chart/?symbol=MHO) | M/I Homes, Inc. | MHO |
 | 33 | 72 | $10.34 | [Chart](https://www.tradingview.com/chart/?symbol=CMRE) | Costamare Inc. | CMRE |
-| 36 | 72 | $11.02 | [Chart](https://www.tradingview.com/chart/?symbol=NAVI) | Navient Corporation | NAVI |
-| 31 | 71 | $24.93 | [Chart](https://www.tradingview.com/chart/?symbol=RAMP) | LiveRamp Holdings, Inc. Common Stock | RAMP |
-| 32 | 71 | $105.77 | [Chart](https://www.tradingview.com/chart/?symbol=MHO) | M/I Homes, Inc. | MHO |
-| 36 | 71 | $10.85 | [Chart](https://www.tradingview.com/chart/?symbol=LBTYK) | Liberty Global Ltd. Class C Common Shares | LBTYK |
-| 32 | 70 | $29.18 | [Chart](https://www.tradingview.com/chart/?symbol=TPH) | Tri Pointe Homes, Inc. | TPH |
-| 39 | 68 | $23.80 | [Chart](https://www.tradingview.com/chart/?symbol=AMRK) | A-Mark Precious Metals, Inc. | AMRK |
-| 37 | 67 | $152.65 | [Chart](https://www.tradingview.com/chart/?symbol=ODFL) | Old Dominion Freight Line | ODFL |
-| 39 | 65 | $49.81 | [Chart](https://www.tradingview.com/chart/?symbol=CMG) | Chipotle Mexican Grill, Inc. | CMG |
+| 31 | 71 | $29.17 | [Chart](https://www.tradingview.com/chart/?symbol=TPH) | Tri Pointe Homes, Inc. | TPH |
+| 36 | 71 | $10.86 | [Chart](https://www.tradingview.com/chart/?symbol=LBTYK) | Liberty Global Ltd. Class C Common Shares | LBTYK |
+| 32 | 70 | $24.96 | [Chart](https://www.tradingview.com/chart/?symbol=RAMP) | LiveRamp Holdings, Inc. Common Stock | RAMP |
+| 39 | 68 | $23.84 | [Chart](https://www.tradingview.com/chart/?symbol=AMRK) | A-Mark Precious Metals, Inc. | AMRK |
+| 37 | 66 | $152.40 | [Chart](https://www.tradingview.com/chart/?symbol=ODFL) | Old Dominion Freight Line | ODFL |
 
 ## **Methodology**
 
